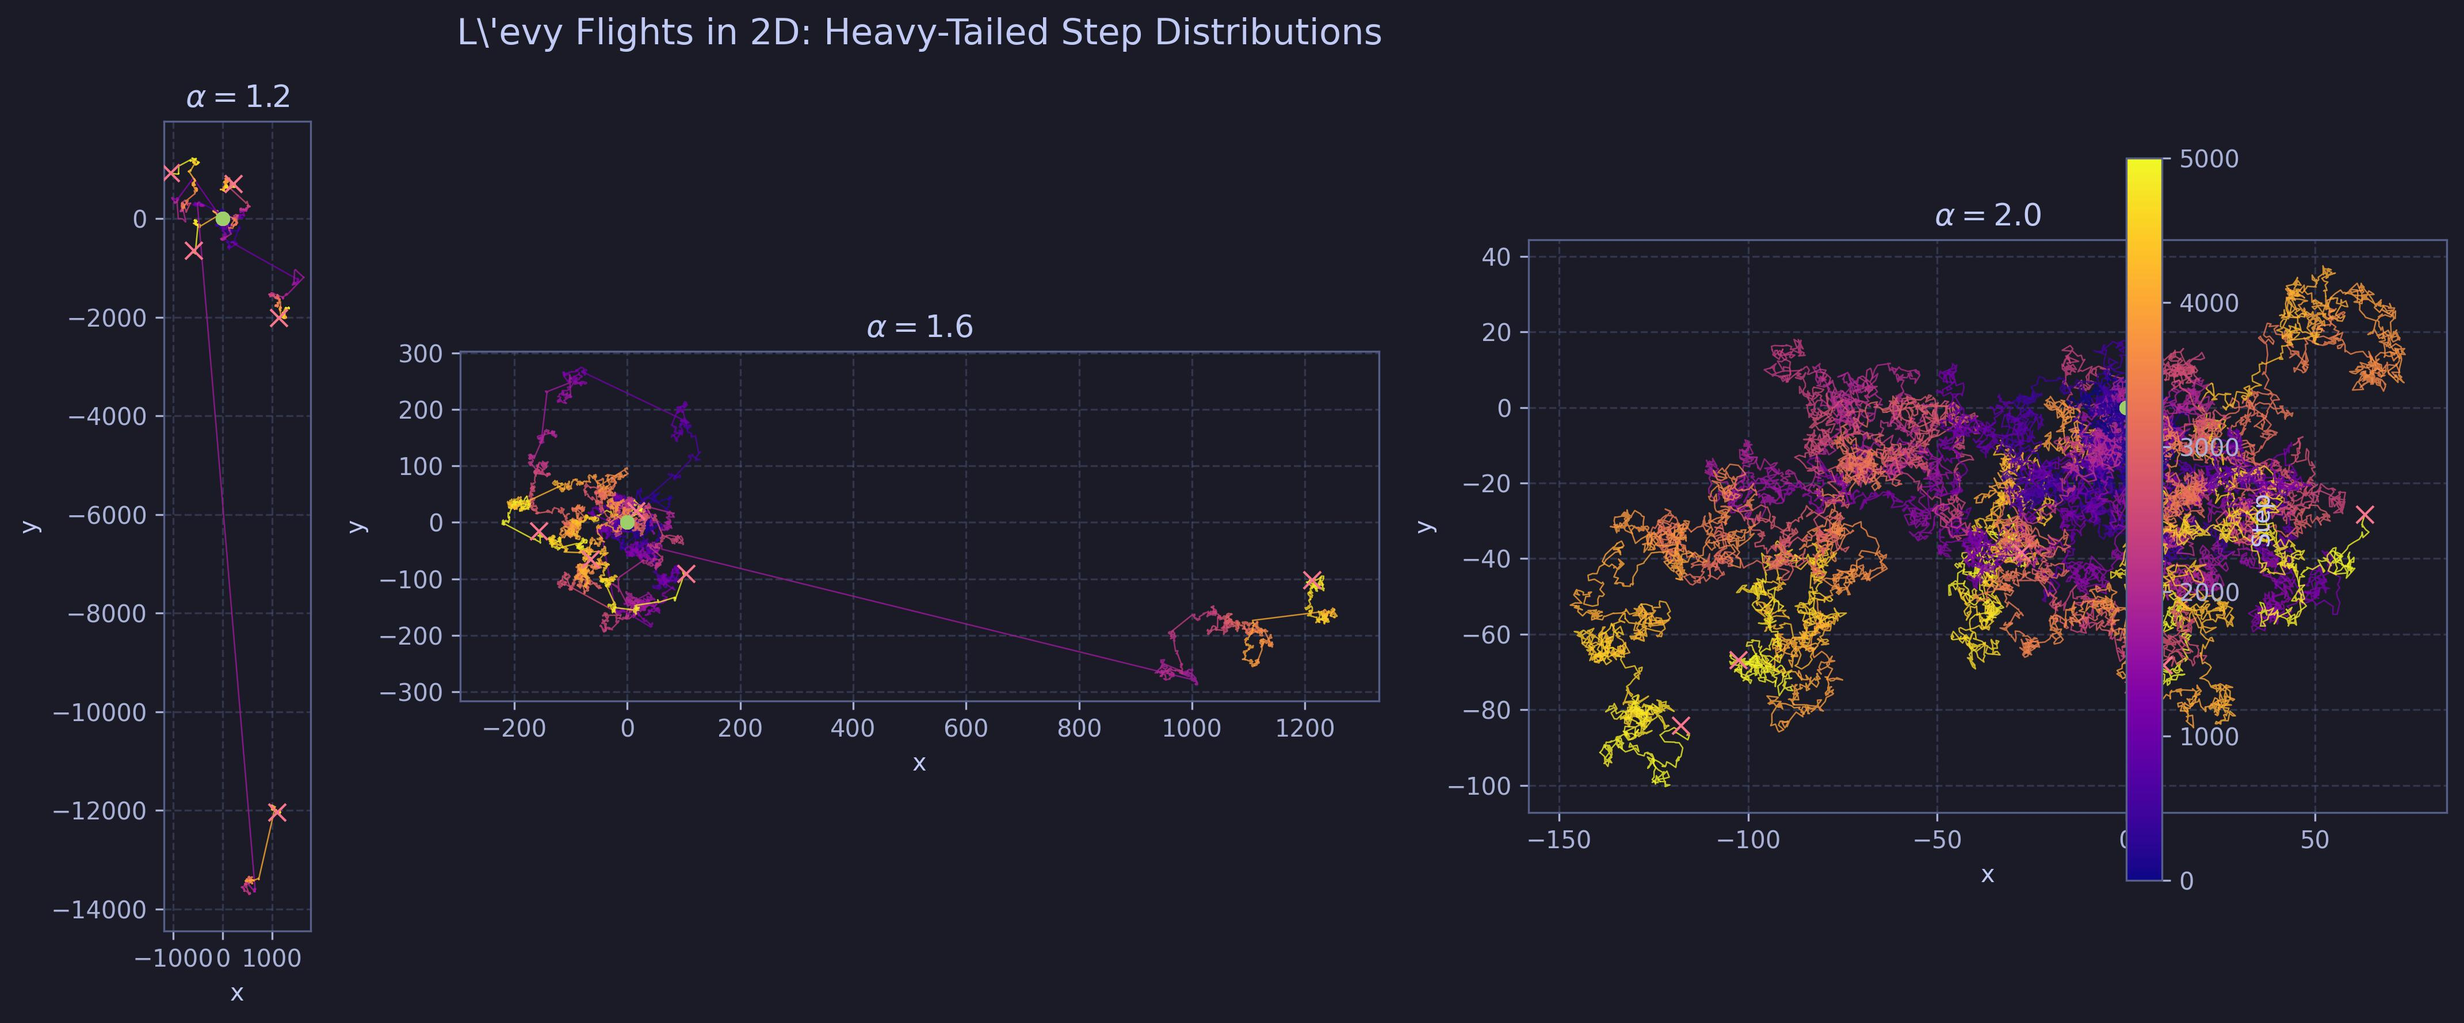
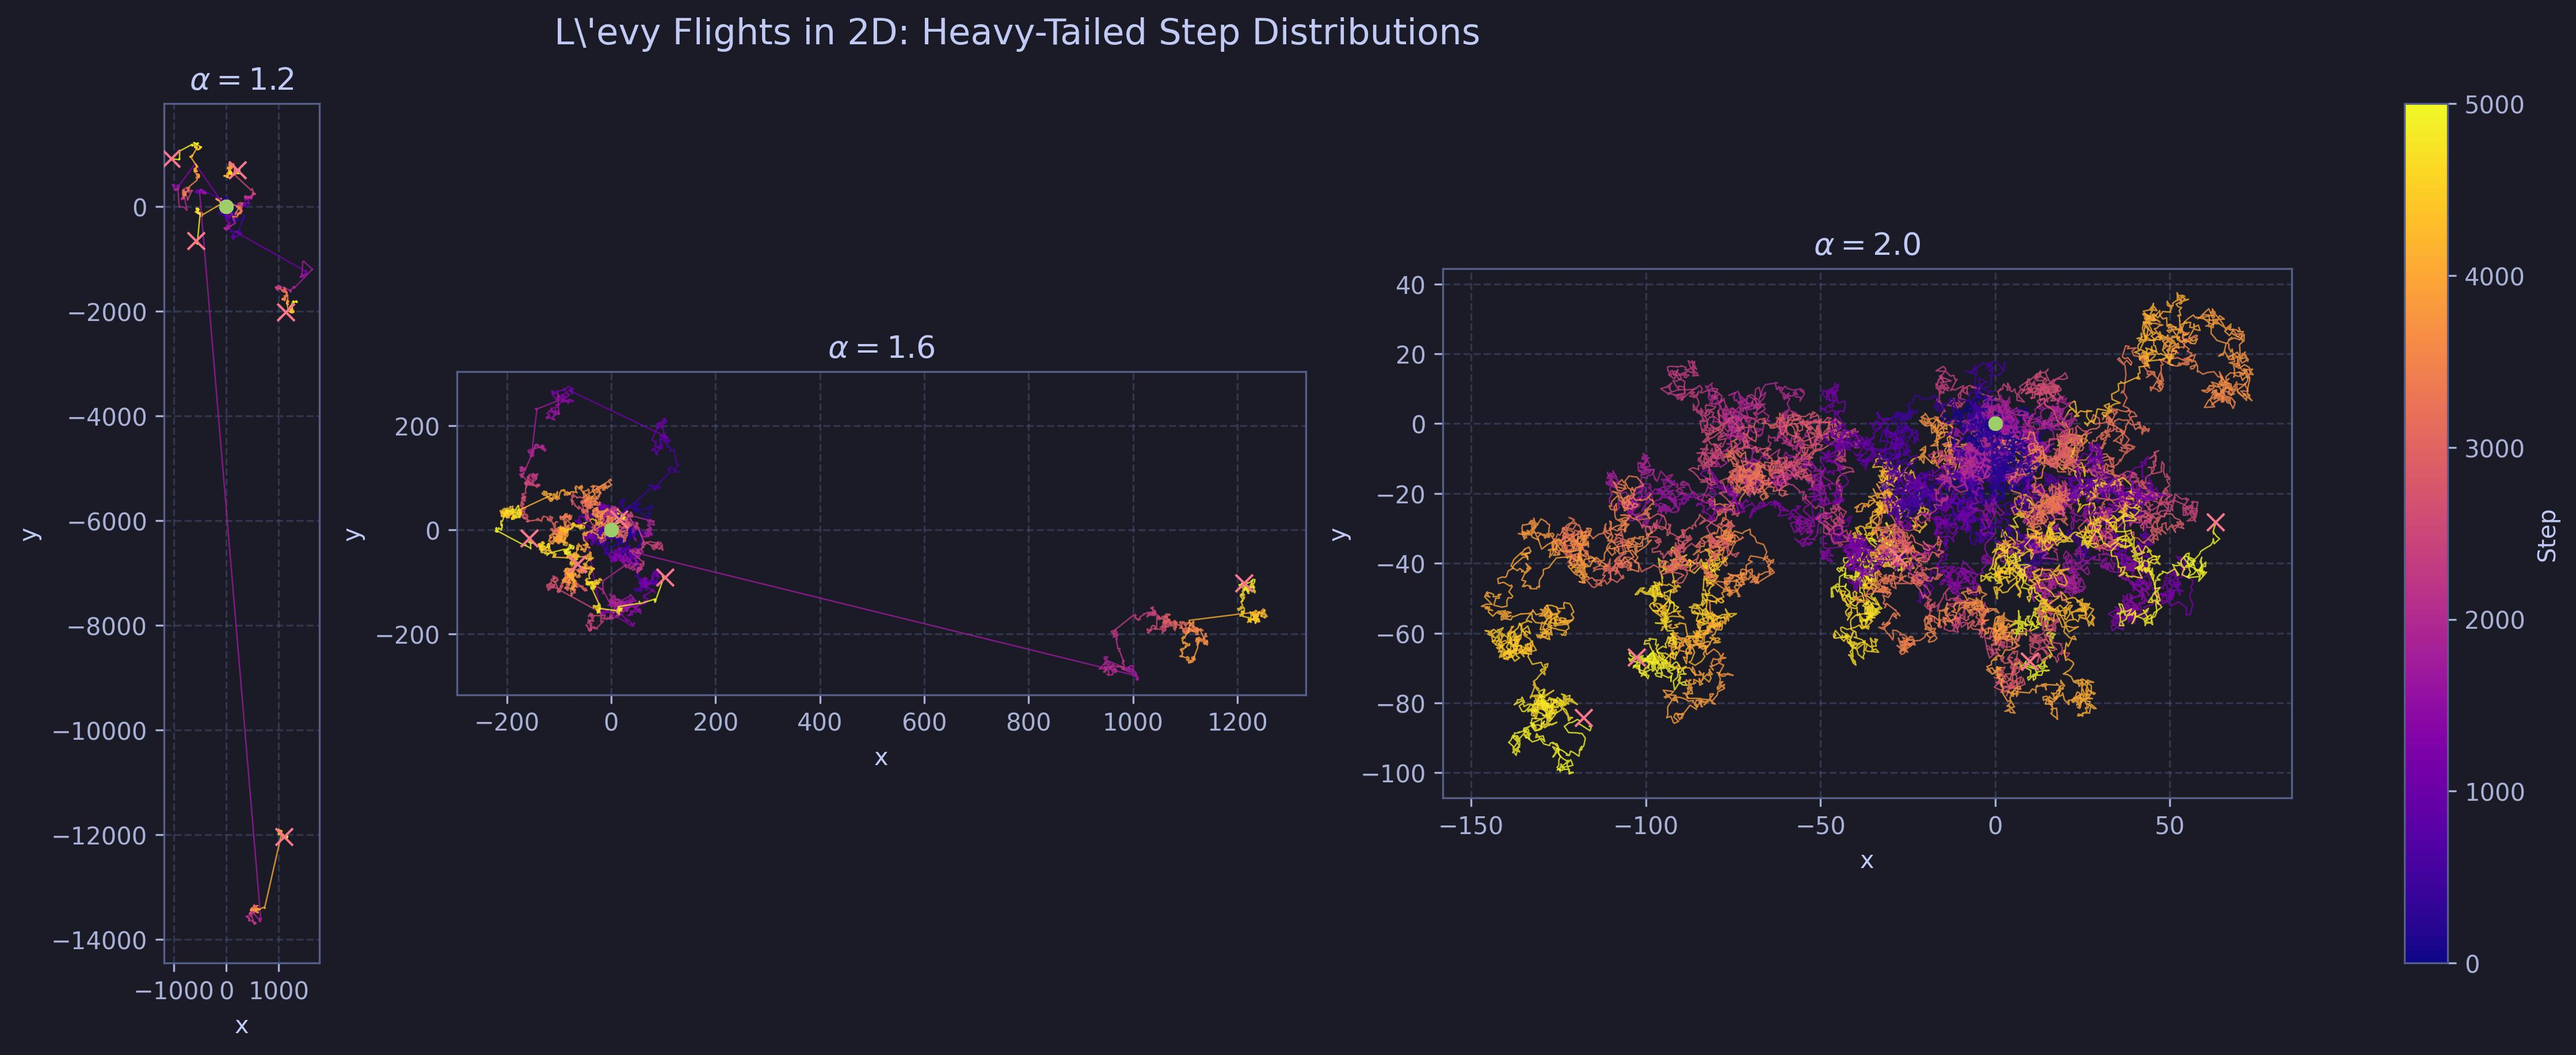
Fix levy_flights_2d colorbar overlap: constrained_layout, remove tight_layout; regenerate plots + hero

diff --git a/Generalizations; Anomalous Diffusion & Levy Flights.py b/Generalizations; Anomalous Diffusion & Levy Flights.py
@@ -360,7 +360,7 @@ class DiffusionVisualizer:
     def plotLevy(self, levy):
         """Figure 2: 2D Levy flight paths coloured by step progression."""
         p = self.palette
-        fig, axes = plt.subplots(1, 3, figsize=(18, 6))
+        fig, axes = plt.subplots(1, 3, figsize=(18, 6), constrained_layout=True)
         fig.suptitle(r"L\'evy Flights in 2D: Heavy-Tailed Step Distributions", fontsize=15)
         levyColors = [p["cyan"], p["purple"], p["orange"]]
 
@@ -388,11 +388,10 @@ class DiffusionVisualizer:
 
         sm = ScalarMappable(cmap="plasma", norm=Normalize(0, levy.nSteps))
         sm.set_array([])
-        cbar = fig.colorbar(sm, ax=axes.ravel().tolist(), fraction=0.015, pad=0.04)
+        cbar = fig.colorbar(sm, ax=axes.ravel().tolist(), fraction=0.025, pad=0.04)
         cbar.set_label("Step")
         cbar.ax.yaxis.set_tick_params(color=p["muted"])
 
-        fig.tight_layout()
         path = self._savePath("levy_flights_2d.jpg")
         fig.savefig(path, bbox_inches="tight", dpi=300)
         print(f"  saved {path}")
